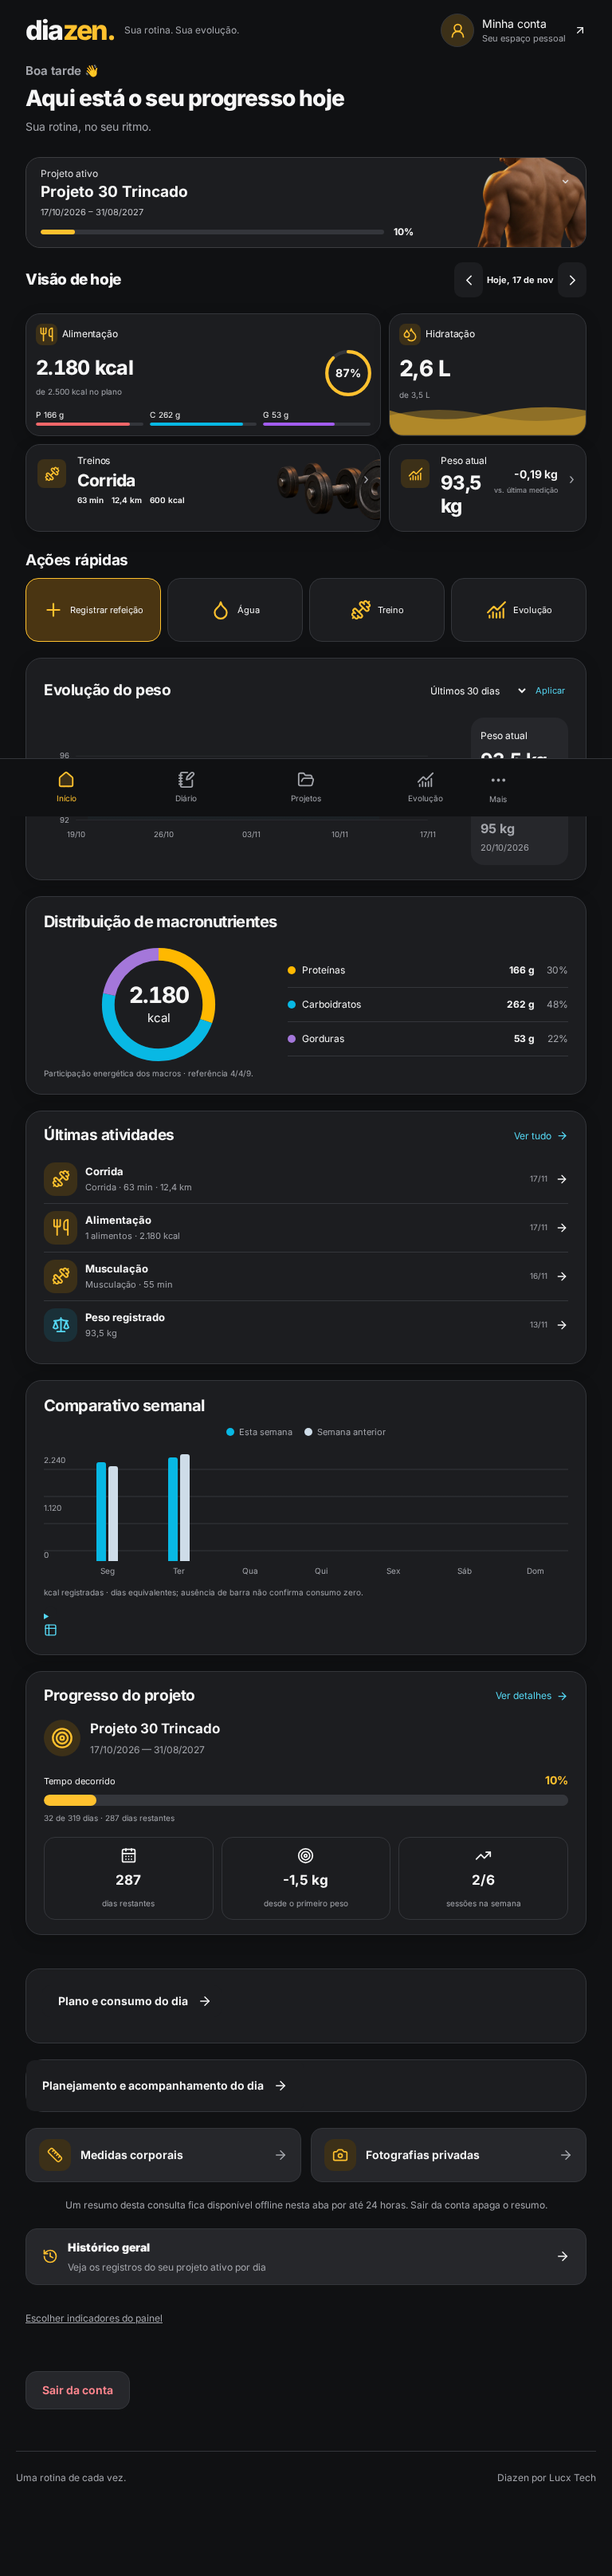
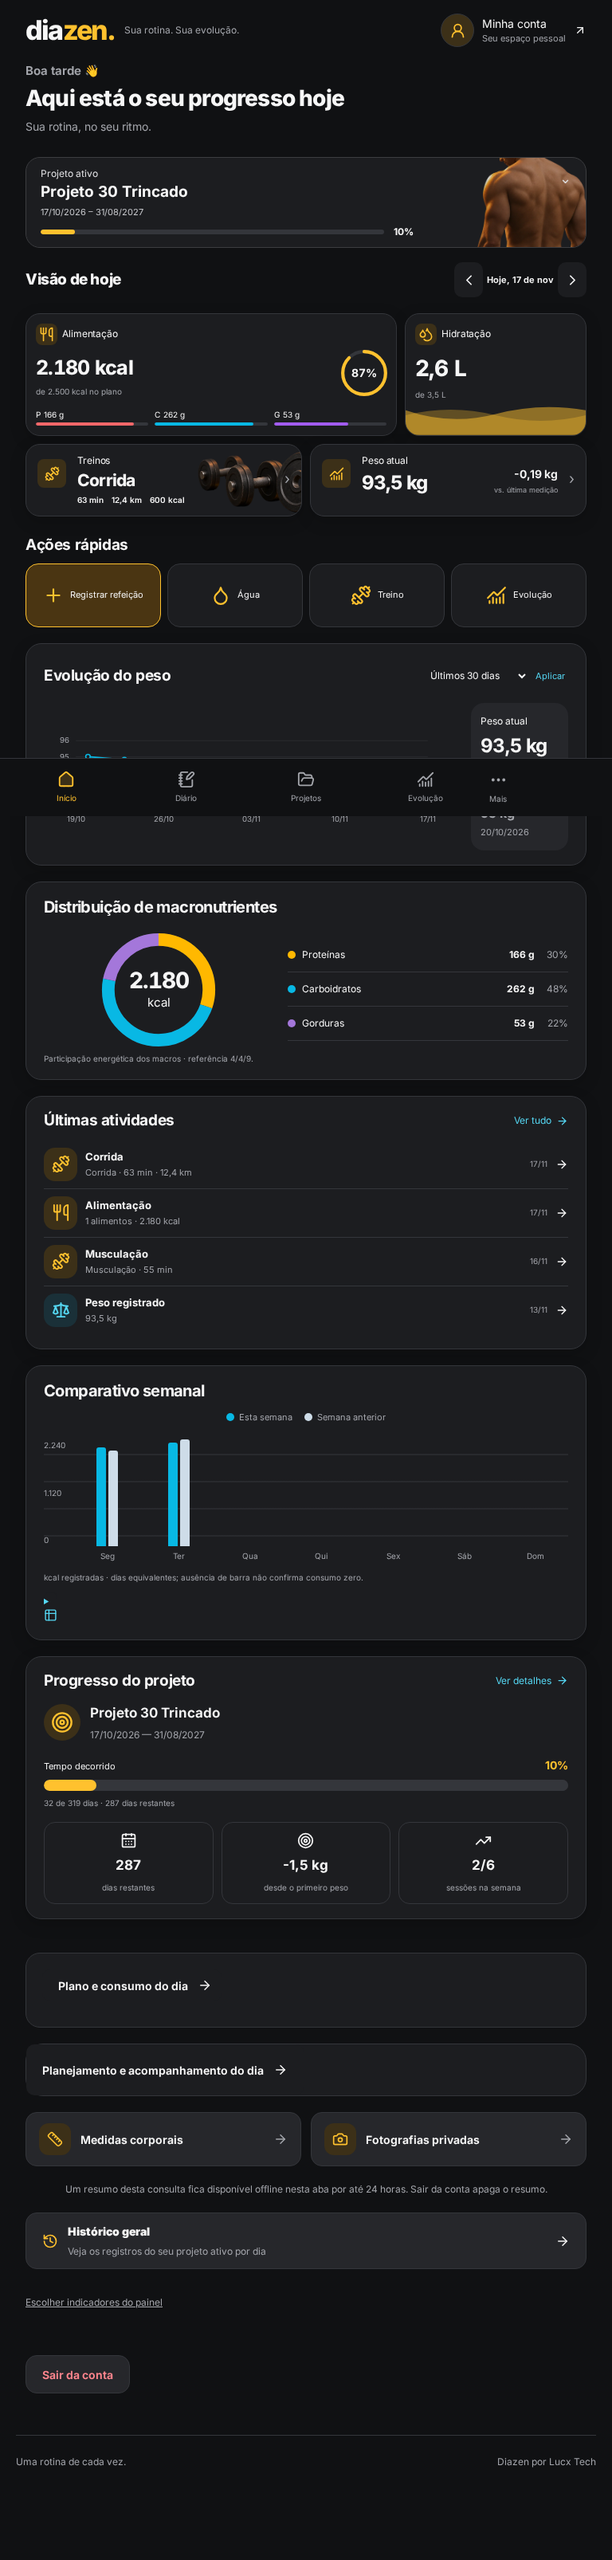
fix: equilibrar cards de treino e peso no tablet

diff --git a/src/components/dashboard/mobile.css b/src/components/dashboard/mobile.css
@@ -28,6 +28,9 @@
   display: none;
 }
 @media (max-width: 1023px) {
+  .v2-dashboard .metric-peso.area-card:has(.weight-chart) {
+    padding-right: 35px;
+  }
   .v2-more {
     margin: 0;
   }
@@ -394,6 +397,21 @@
   .v2-dashboard .metric-peso {
     min-height: 76px;
     padding-block: 12px;
+  }
+}
+@media (min-width: 768px) and (max-width: 1023px) {
+  .v2-dashboard .area-grid {
+    grid-template-columns: repeat(6, minmax(0, 1fr));
+  }
+  .v2-dashboard .metric-alimentacao {
+    grid-column: span 4;
+  }
+  .v2-dashboard .metric-agua {
+    grid-column: span 2;
+  }
+  .v2-dashboard .metric-atividades,
+  .v2-dashboard .metric-peso {
+    grid-column: span 3;
   }
 }
 @media (min-width: 1024px) {

diff --git a/docs/design/diazen-v2/execution-status.md b/docs/design/diazen-v2/execution-status.md
@@ -19,7 +19,7 @@ Em 17/11/2026, o proprietário aprovou recipientes de água salvos e perfil com 
 | 0    | Discovery técnico e visual      | Concluída — `997afe0` |
 | 1    | Dashboard desktop, claro/escuro | Concluída — `2c94fc7` |
 | 2    | Dashboard mobile e tablet       | Em execução           |
-| 3    | Alimentação                     | Pendente              |
+| 3    | Alimentação                     | Em execução           |
 | 4    | Hidratação                      | Pendente              |
 | 5    | Treinos                         | Pendente              |
 | 6    | Evolução corporal               | Pendente              |
@@ -51,4 +51,6 @@ Uma fase só muda para concluída com evidência de implementação e verificaç
 - [x] Build, TypeScript, ESLint e formatação locais.
 - [x] Três cenários Chromium e três WebKit direcionados aprovados.
 - [x] Capturas e relatório [phase-2-mobile-report.md](phase-2-mobile-report.md).
-- [ ] CI completa e integração na develop.
+- [x] CI completa do commit `e7f5ca0` aprovada ([44118454686](https://github.com/pauloluccasdev/diazen/actions/runs/44118454686)).
+- [x] Ajuste adicional de tablet: build, dois cenários Chromium e dois WebKit aprovados; integração na develop nesta entrega.
+- [ ] CI do ajuste final de tablet, antes de contabilizar a fase como concluída.
